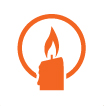
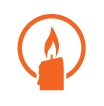
Reduced inventory images sizes, bigger image shows up on mouse-over.

diff --git a/src/directive/item-slot.tpl.html b/src/directive/item-slot.tpl.html
@@ -1,7 +1,11 @@
-<div style="text-align:center;" >
-	<img src="{{getImage()}}" height="250px" />
+<div style="text-align:center; position:relative; z-index:5;" ng-mouseenter="show()" ng-mouseleave="hide()" >
+	<img src="{{getImage()}}" height="200px" />
 	<br />
-	<select ng-change="setCurrentValue(value)" ng-model="value" style="width:155px;">
+	<select ng-change="setCurrentValue(value)" ng-model="value" style="width:130px;">
 		<option ng-repeat="item in getArray()" >{{item | itemName}}</option>
 	</select>
+</div>
+
+<div ng-show="showBig" style="text-align:center; position:fixed; z-index:10; top:250px; left:350px;" >
+  <img src="{{getImage()}}" height="500px" />
 </div>

diff --git a/src/directive/item-slot.js b/src/directive/item-slot.js
@@ -17,6 +17,15 @@ angular.module("directives")
 		},
 		link: function ($scope) {
 			
+			$scope.showBig = false;
+			
+			$scope.hide = function() {
+				$scope.showBig = false;
+			};
+			$scope.show = function() {
+				$scope.showBig = true;
+			};
+			
 			$scope.getImage = function() {
 				if (!$scope.value) {
 					$scope.value = "empty.png";
